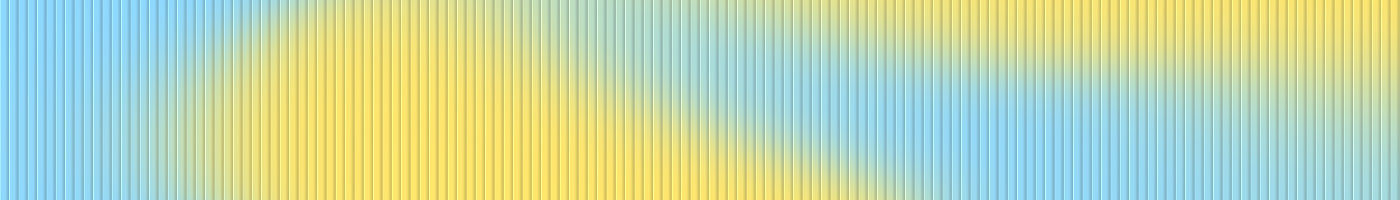
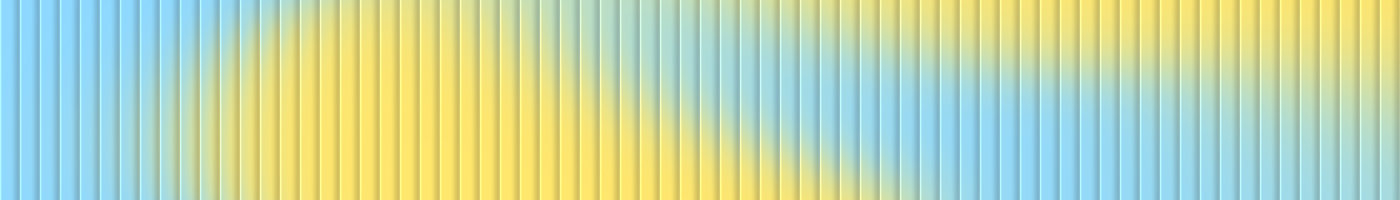
v6: hero tint and equal grid (12.5svh rows) in all dark areas, wider ribs in buttons and text gradients, ribbed gradient in hero title and badge

diff --git a/versions/v6/index.html b/versions/v6/index.html
@@ -18,7 +18,7 @@
 <link rel="preload" href="assets/fonts/SaraAnkava-Bold-v1.2.woff2" as="font" type="font/woff2" crossorigin>
 <link rel="stylesheet" href="assets/css/style.css?v=6">
 <link rel="stylesheet" href="assets/css/v4.css?v=4">
-<link rel="stylesheet" href="assets/css/v6.css?v=130">
+<link rel="stylesheet" href="assets/css/v6.css?v=131">
 <meta name="robots" content="noindex">
 <script>document.documentElement.classList.add('js');setTimeout(function(){if(!window.__saReady)document.documentElement.classList.remove('js')},3000)</script>
 <script type="application/ld+json">
@@ -248,7 +248,7 @@
 <script src="assets/js/main.js?v=4" defer></script>
 <script src="assets/js/header.js?v=4" defer></script>
 <script src="assets/js/v4.js?v=2" defer></script>
-<script src="assets/js/ribbed-gradient.js?v=6" defer></script>
+<script src="assets/js/ribbed-gradient.js?v=7" defer></script>
 <script>if(location.hash==="#still"){var s=document.createElement("style");s.textContent=".hb__l,.hb__small,.hb__card,.hb__badge{animation:none!important;transform:none!important;opacity:1!important}.hb__badge{transform:none!important}.ar{animation:none!important;stroke-dashoffset:0!important}";document.head.appendChild(s)}</script>
 <script>(function(){var r=document.querySelector(".cx__row");if(!r)return;var it=[].slice.call(r.querySelectorAll(".cx__f"));function open(x){it.forEach(function(y){y.classList.toggle("is-open",y===x)})}it.forEach(function(x){x.addEventListener("pointerenter",function(){if(matchMedia("(min-width:901px)").matches)open(x)});x.addEventListener("focusin",function(){open(x)});x.addEventListener("click",function(){open(x)})})})()</script>
 <script>(function(){var l=document.querySelector("[data-pj3]");if(!l)return;var it=[].slice.call(l.querySelectorAll(".pj3__c"));function open(x){it.forEach(function(y){y.classList.toggle("is-open",y===x)})}it.forEach(function(x){x.addEventListener("pointerenter",function(e){if(e.pointerType==="mouse"&&matchMedia("(min-width:901px)").matches)open(x)});x.addEventListener("focusin",function(){open(x)});x.addEventListener("click",function(){open(x)})})})()</script>
@@ -273,6 +273,6 @@ var reduce=matchMedia("(prefers-reduced-motion:reduce)").matches,mob=matchMedia(
 function set(t){var act=null;items.forEach(function(el,k){var on=t>=k;if(el.classList.contains("pr3__ar"))el.classList.toggle("is-on",on);else{el.classList.toggle("is-lit",on);if(on)act=el}});cols.forEach(function(c){c.classList.toggle("is-act",c===act)})}
 function upd(){if(reduce){set(5);return}var r=s.getBoundingClientRect(),p;if(mob.matches)p=(innerHeight*.85-r.top)/(r.height*.85);else p=-r.top/(s.offsetHeight-innerHeight);p=Math.max(0,Math.min(1,p));set(.3+p*5.3)}
 addEventListener("scroll",upd,{passive:true});addEventListener("resize",upd);upd()})()</script>
-<script>(function(){var c=document.querySelector(".pr3__cols");if(!c)return;var mq=matchMedia("(min-width:901px)");function snap(){c.style.height="";if(!mq.matches)return;var h=c.scrollHeight;c.style.height=Math.ceil(h/56)*56+"px"}addEventListener("load",snap);addEventListener("resize",snap);if(document.fonts&&document.fonts.ready)document.fonts.ready.then(snap);snap()})()</script>
+<script>(function(){var c=document.querySelector(".pr3__cols"),t=document.querySelector(".pr3__h"),s=document.querySelector(".pr3__stick");if(!c)return;var mq=matchMedia("(min-width:901px)");function fit(){c.style.height="";if(t)t.style.transform="";if(!mq.matches)return;var P=innerHeight/8;c.style.height=Math.ceil(c.scrollHeight/P)*P+"px";if(t){var st=s.getBoundingClientRect().top,i=document.createElement("i");i.style.cssText="display:inline-block;width:0;height:0";t.appendChild(i);var bl=i.getBoundingClientRect().bottom-st;i.remove();t.style.transform="translateY("+(2*P-.5-bl)+"px)"}}addEventListener("load",fit);addEventListener("resize",fit);if(document.fonts&&document.fonts.ready)document.fonts.ready.then(fit);fit()})()</script>
 </body>
 </html>

diff --git a/versions/v6/assets/css/v6.css b/versions/v6/assets/css/v6.css
@@ -1283,3 +1283,17 @@ body::before,body::after{display:none!important}
 .sc__bt{font:500 14px "Sara Ankava",system-ui,sans-serif}
 .sc__bub{transform-origin:50% 100%;transform-box:fill-box}
 @media (max-width:900px){.sc{max-width:100%}}
+
+
+/* סבב סנכרון: גוון הירו אחיד (כולל הילות הרקע הרכות), גריד שווה בכל האתר (שורה = 12.5svh כמו בהירו), גרדיאנט מחורץ מרווח, גם בהירו */
+:root{--hero-tint:radial-gradient(55% 60% at 24% 40%,rgb(134 211 255 / .09),transparent 70%),radial-gradient(45% 50% at 88% 30%,rgb(255 240 138 / .07),transparent 70%);--hl:repeating-linear-gradient(to bottom,transparent 0,transparent calc(12.5svh - 1px),rgb(217 217 210 / .1) calc(12.5svh - 1px),rgb(217 217 210 / .1) 12.5svh)}
+.lp2__stick,.pr3__stick{background-image:var(--hero-tint),var(--hl)!important}
+.ab,.ftr2{background-image:var(--hero-tint),var(--hl)}
+.pr3__cols::after{background:rgb(217 217 210 / .1)}
+@media (min-width:901px){
+  .pr3__stick{padding:12.5svh 0 0}
+  .pr3__h{font-size:clamp(28px,3.2vw,46px)!important;line-height:12.5svh!important;white-space:nowrap!important;margin:0 clamp(48px,6vw,88px)!important;transform:none}
+  .pr3__h span{display:inline}
+}
+.hb__title .hb__l.gr-text{background-image:url('../gradients/ribbed-text.jpg');background-size:1100px auto;background-position:0 50%;background-blend-mode:normal;filter:none}
+.hb__badge .gr-sq{background-image:url('../gradients/ribbed-text.jpg');background-size:420px auto;background-position:0 50%;background-blend-mode:normal;filter:none}

diff --git a/versions/v6/assets/js/ribbed-gradient.js b/versions/v6/assets/js/ribbed-gradient.js
@@ -86,7 +86,7 @@
     this.seed = Math.random() * 100;
     this.m = { x: .5, y: .5, tx: .5, ty: .5 };
     this.vis = false; this.hot = false;
-    if (mobile) this.ribs = Math.max(24, Math.round(this.ribs * .5));
+    if (mobile) this.ribs = Math.max(8, Math.round(this.ribs * .5));
     if (reduce || weak || !init()) { this.still(); return; }
     this.cv = document.createElement('canvas'); this.cv.className = 'rg__cv'; this.cv.setAttribute('aria-hidden', 'true');
     this.ctx = this.cv.getContext('2d');
@@ -149,7 +149,7 @@
         if (h.querySelector(':scope>.rg')) return;
         var i = document.createElement('i');
         i.className = 'rg rg--fill'; i.setAttribute('aria-hidden', 'true');
-        i.dataset.rg = ''; i.dataset.hover = '1'; i.dataset.ribs = '36'; i.dataset.img = 'assets/gradients/ribbed-fill.jpg';
+        i.dataset.rg = ''; i.dataset.hover = '1'; i.dataset.ribs = h.matches('.ftr2__ic a') ? '8' : '12'; i.dataset.img = 'assets/gradients/ribbed-fill.jpg';
         h.insertBefore(i, h.firstChild);
       });
     }
